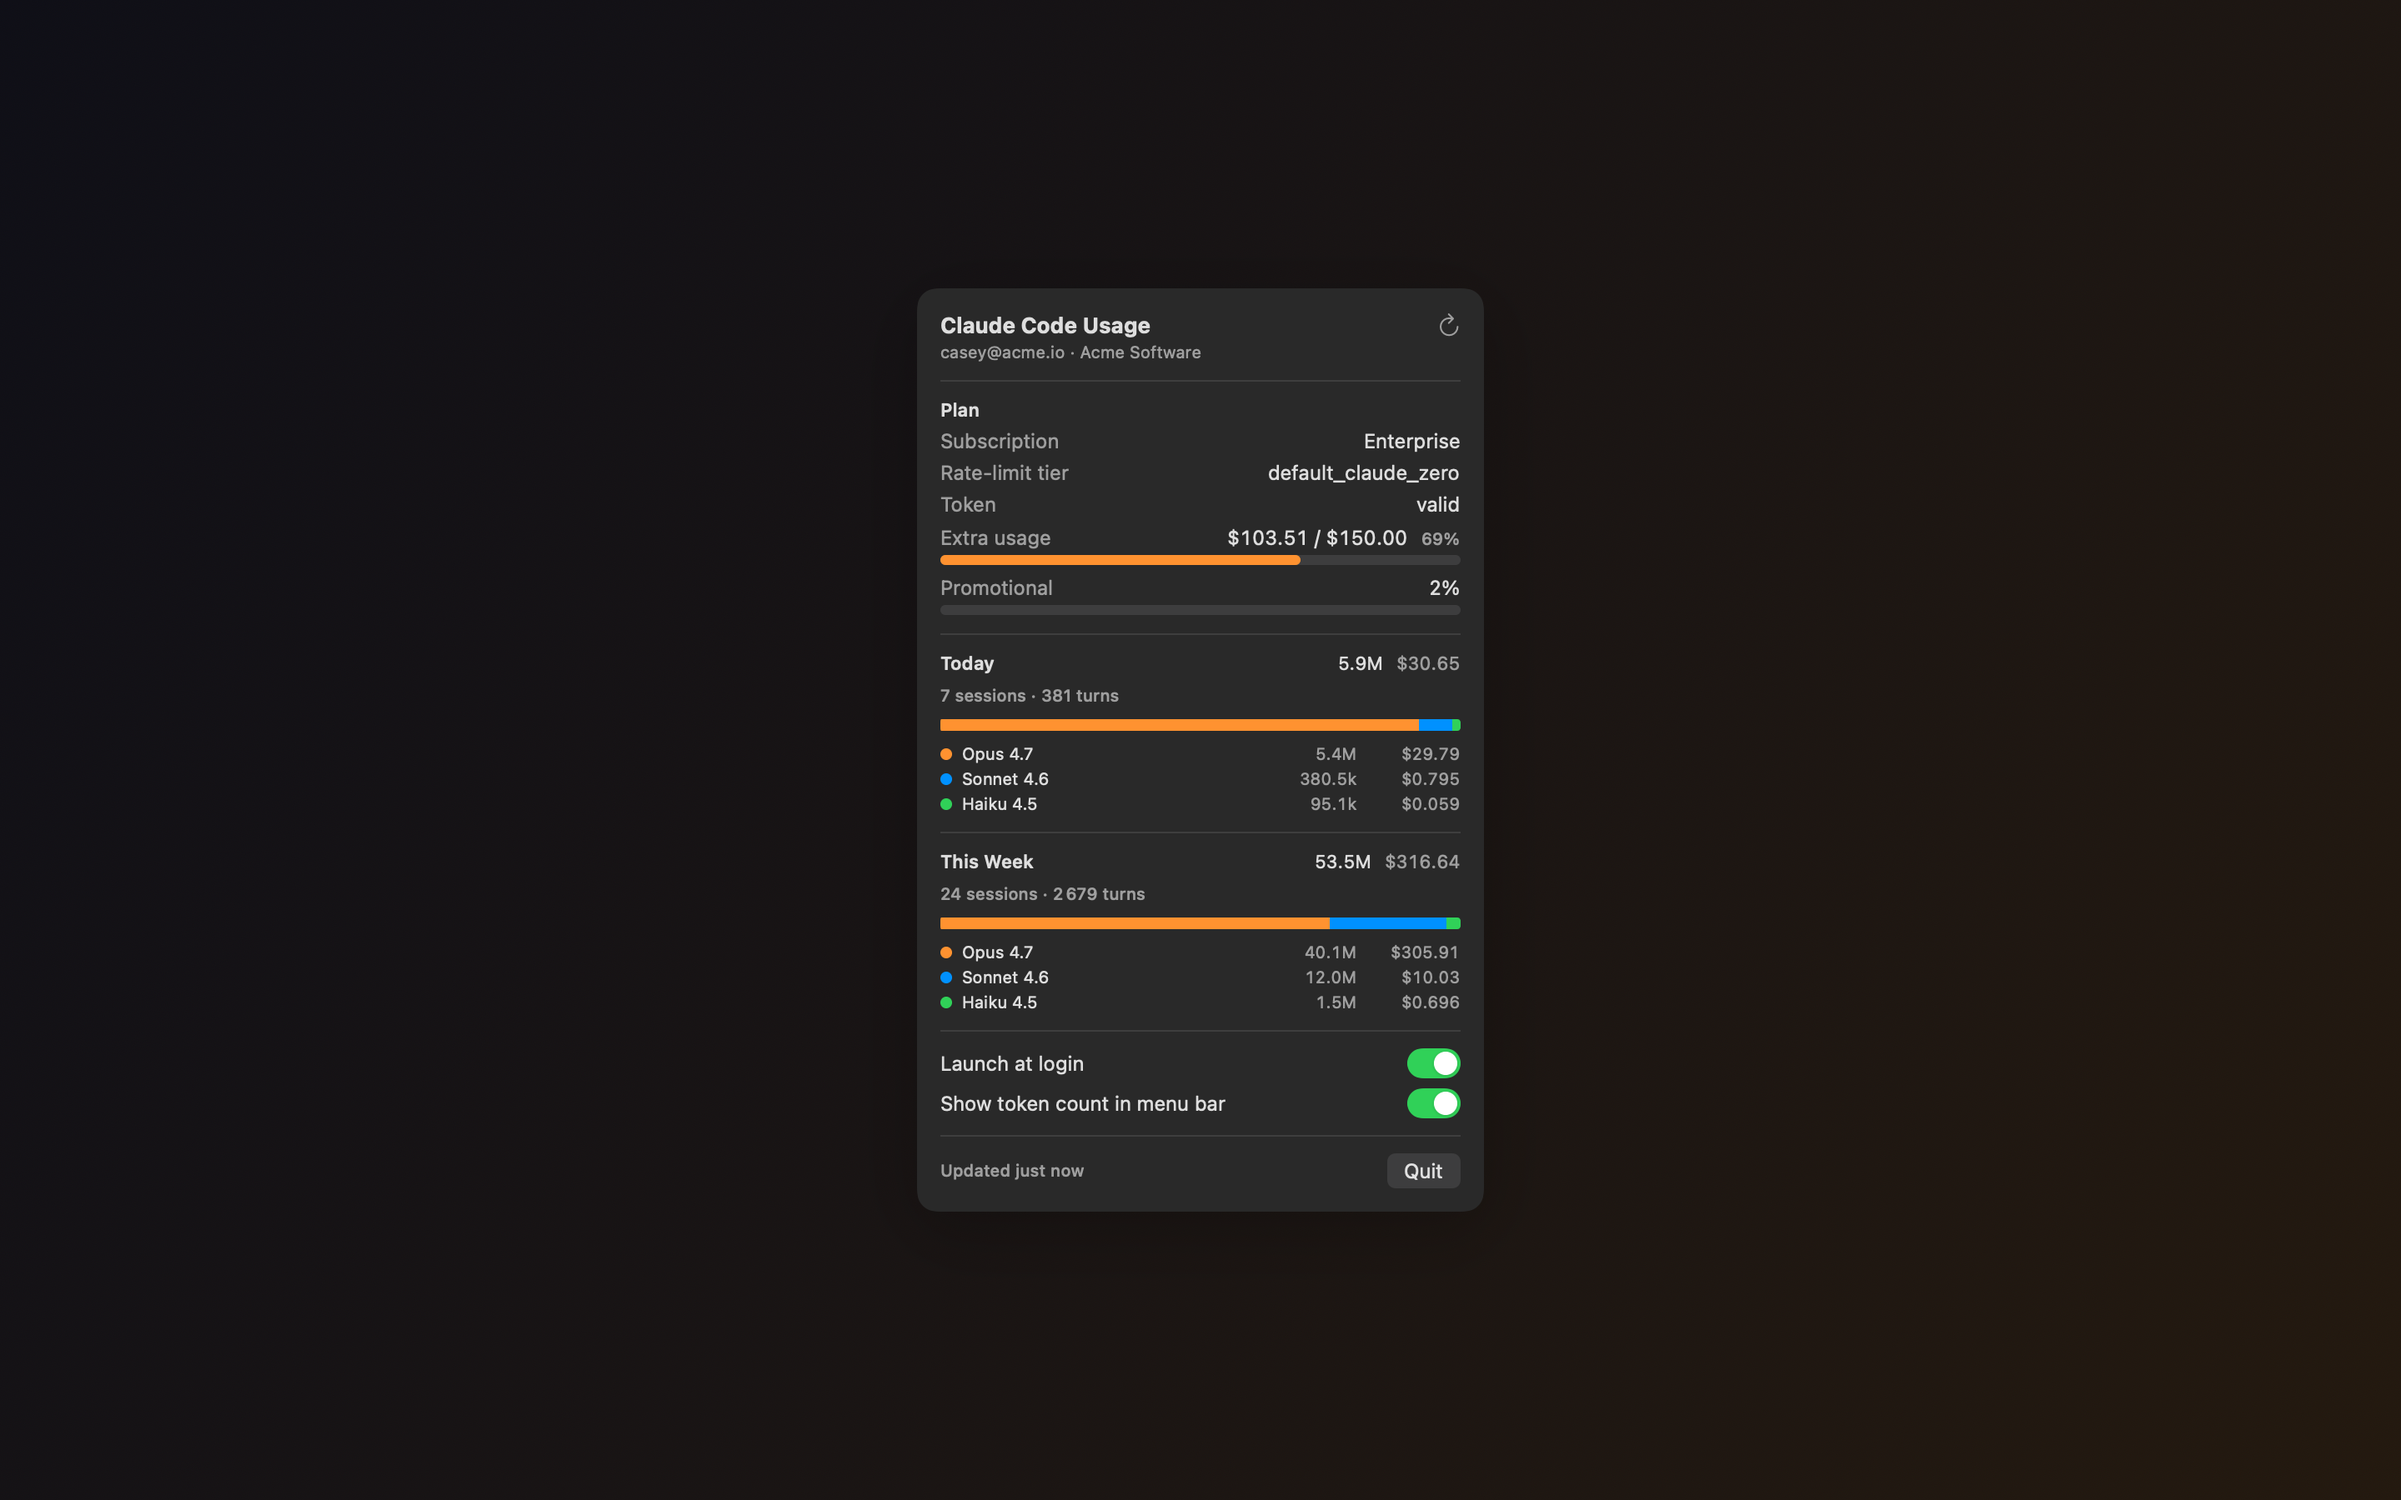
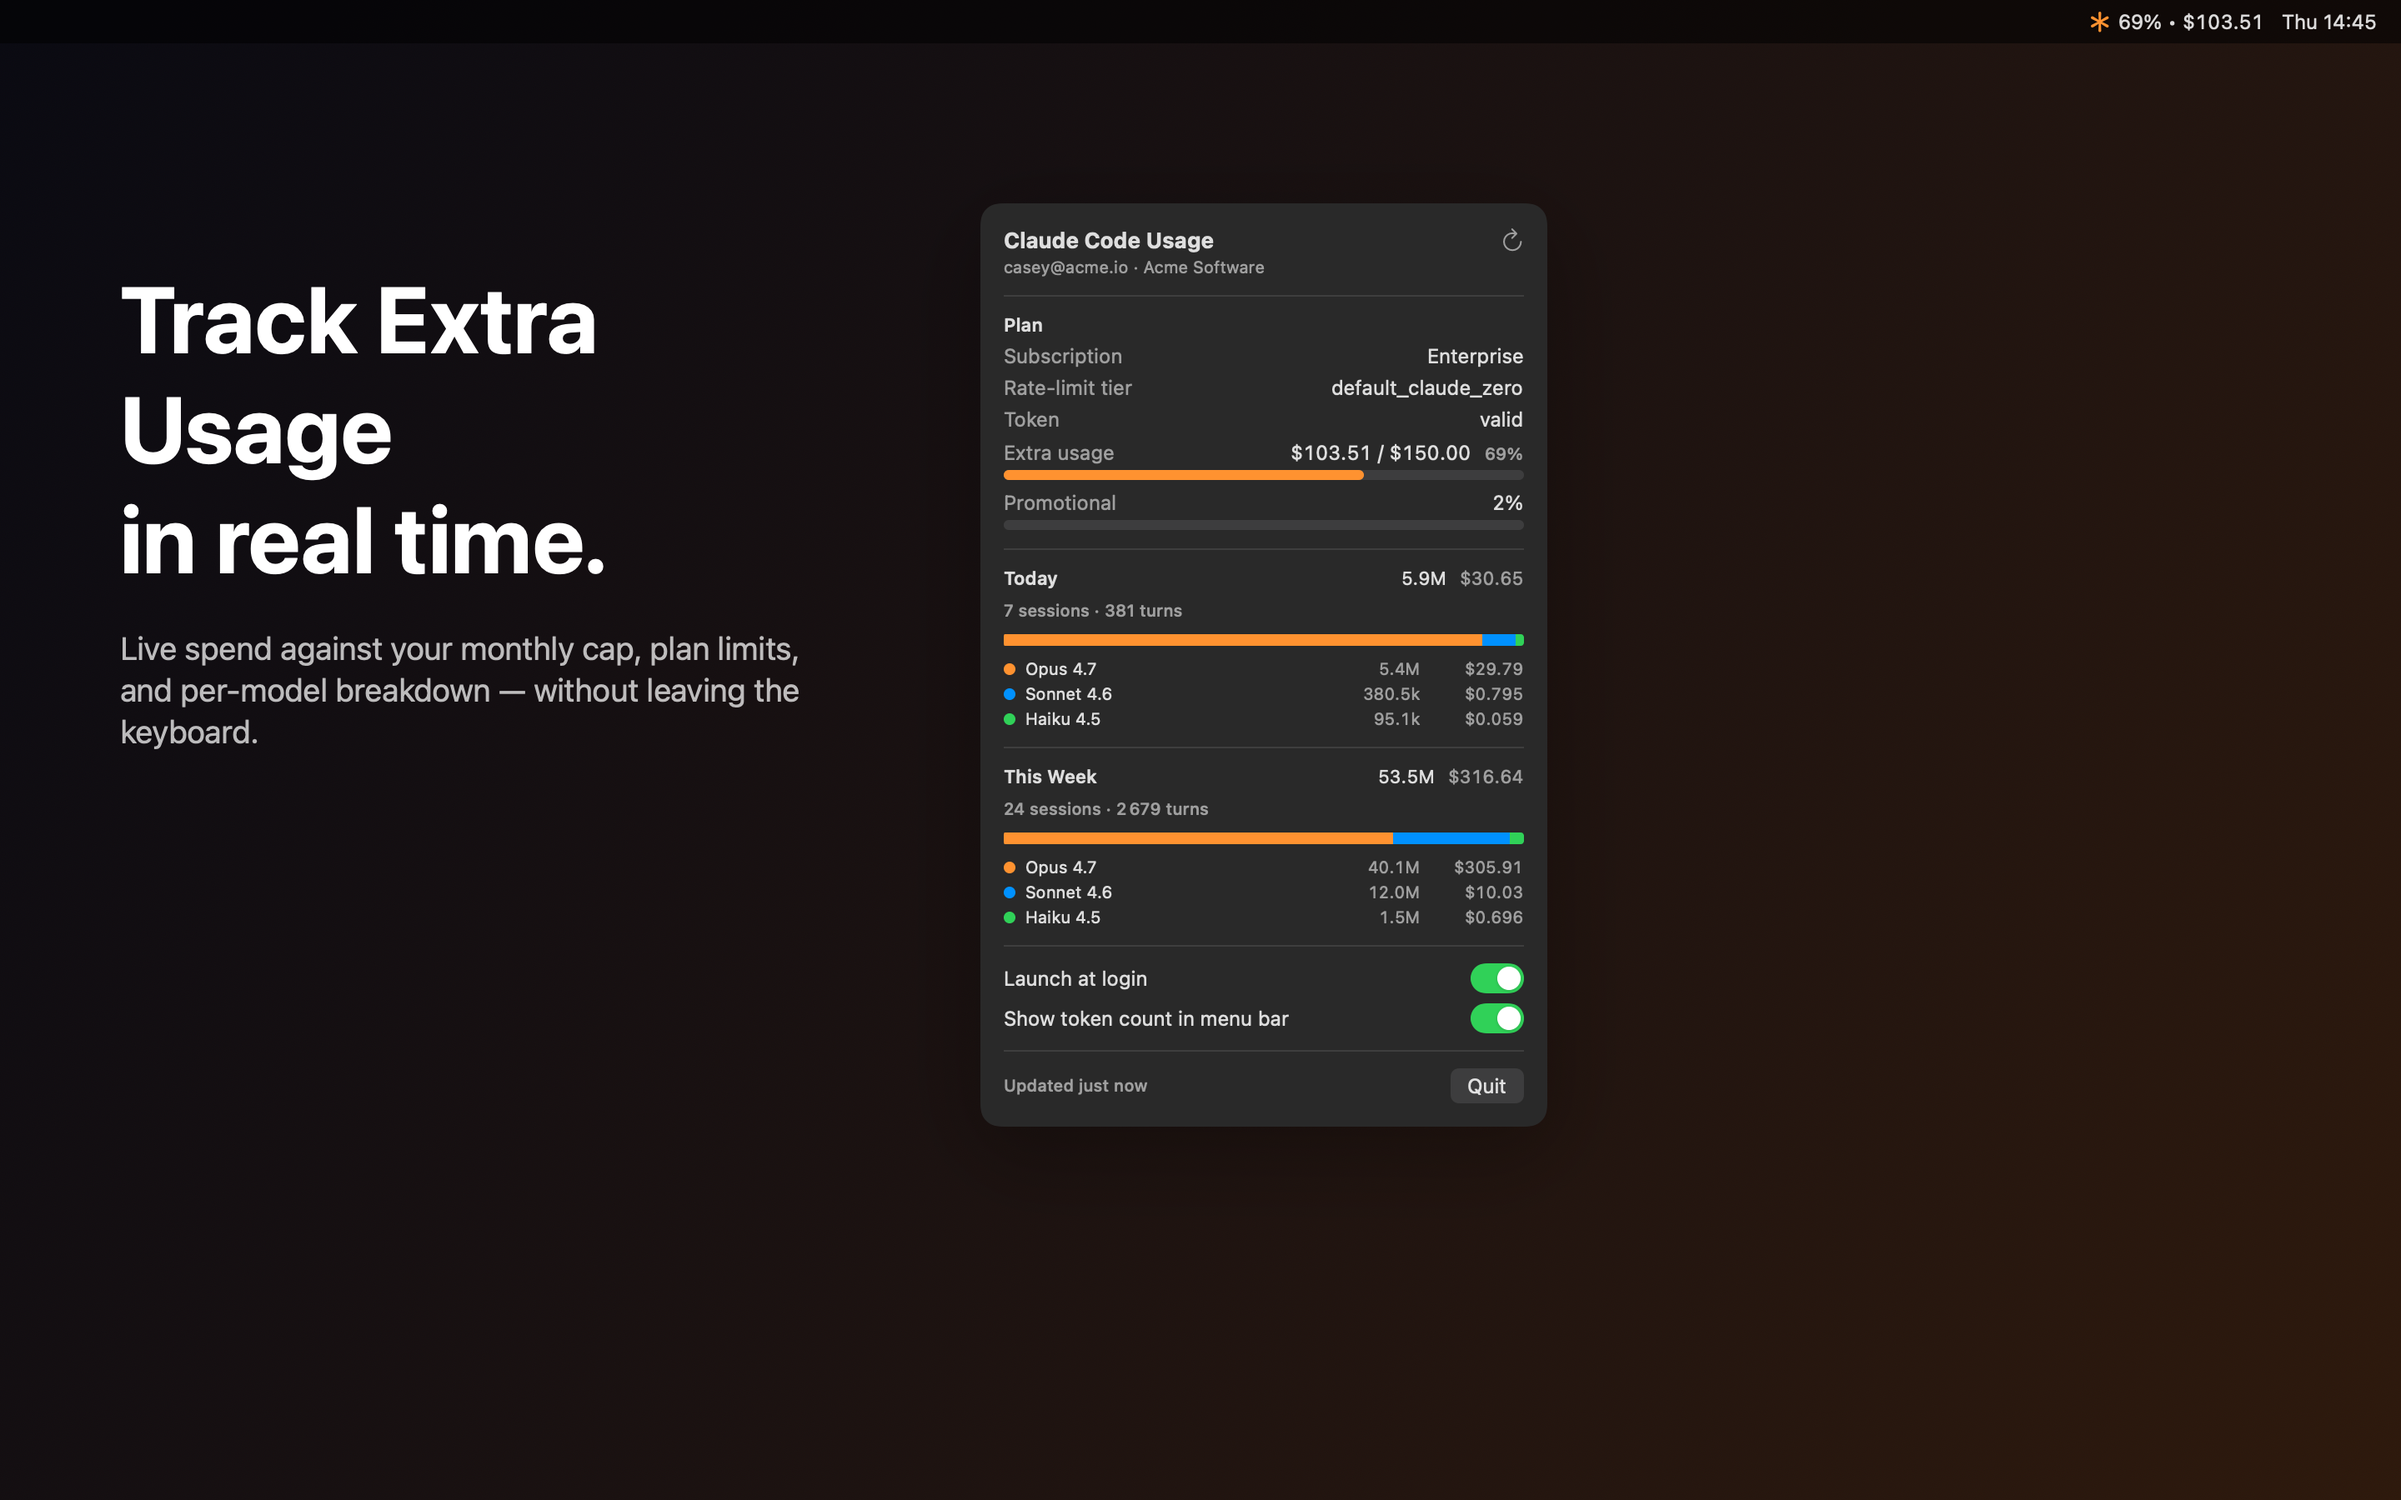
Compose screenshots with menu-bar strip, headline column, and shadowed card
Previous screenshots placed the dropdown alone in the middle of a sparse
canvas. App Store gallery shots benefit from explanatory context.

ScreenshotMode now lays out:
- Top: faux macOS menu bar strip with our actual orange asterisk + the
  live `menuBarCount` (e.g. "69% • \$103.51", "5h 13% • wk 47%") plus
  a generic time-of-day for authenticity.
- Left: per-plan headline (\"Track Extra Usage in real time.\" /
  \"Never hit your weekly cap by surprise.\") with a one-line subline.
- Right: the dropdown sitting on a soft shadow card.
- Background: warm light → amber gradient (light) / charcoal → dim
  amber (dark) so the orange brand accent reads on both themes.

Re-renders all four 2880×1800 PNGs.

diff --git a/Sources/ClaudeStatus/ScreenshotMode.swift b/Sources/ClaudeStatus/ScreenshotMode.swift
@@ -13,9 +13,14 @@ enum ScreenshotMode {
     static func run(plan rawPlan: String, outDir: String) -> Never {
         let plan = rawPlan.lowercased()
         let store: UsageStore
+        let copy: ScreenshotCopy
         switch plan {
-        case "enterprise": store = DemoData.enterpriseStore()
-        case "pro":        store = DemoData.proStore()
+        case "enterprise":
+            store = DemoData.enterpriseStore()
+            copy = .enterprise
+        case "pro":
+            store = DemoData.proStore()
+            copy = .pro
         default:
             FileHandle.standardError.write(Data("unknown plan: \(rawPlan) (expected 'enterprise' or 'pro')\n".utf8))
             exit(2)
@@ -29,16 +34,17 @@ enum ScreenshotMode {
             let outURL = URL(fileURLWithPath: outDir)
                 .appendingPathComponent("claude-status-\(plan)-\(name).png")
 
-            let content = ZStack {
-                canvasBackground(scheme)
-                DropdownFrame(scheme: scheme) {
-                    MenuView(store: store, screenshotMode: true)
-                }
+            let layout = ScreenshotLayout(
+                scheme: scheme,
+                menuBarText: store.menuBarCount ?? "",
+                copy: copy
+            ) {
+                MenuView(store: store, screenshotMode: true)
             }
             .frame(width: canvasWidth, height: canvasHeight)
             .environment(\.colorScheme, scheme)
 
-            let renderer = ImageRenderer(content: content)
+            let renderer = ImageRenderer(content: layout)
             renderer.scale = 2.0
             renderer.isOpaque = true
 
@@ -60,40 +66,125 @@ enum ScreenshotMode {
 
         exit(0)
     }
+}
+
+private struct ScreenshotCopy {
+    let headline: String
+    let subline: String
+
+    static let enterprise = ScreenshotCopy(
+        headline: "Track Extra Usage\nin real time.",
+        subline: "Live spend against your monthly cap, plan limits, and per-model breakdown — without leaving the keyboard."
+    )
+    static let pro = ScreenshotCopy(
+        headline: "Never hit your\nweekly cap by surprise.",
+        subline: "5-hour and weekly utilization at a glance, with per-model spend in API-equivalent USD."
+    )
+}
+
+/// Full canvas: background → faux menu bar strip → headline / dropdown row.
+private struct ScreenshotLayout<Dropdown: View>: View {
+    let scheme: ColorScheme
+    let menuBarText: String
+    let copy: ScreenshotCopy
+    @ViewBuilder var dropdown: () -> Dropdown
+
+    var body: some View {
+        ZStack(alignment: .topLeading) {
+            canvasBackground
+            VStack(alignment: .leading, spacing: 0) {
+                menuBarStrip
+                bodyRow
+            }
+        }
+    }
 
     @ViewBuilder
-    private static func canvasBackground(_ scheme: ColorScheme) -> some View {
+    private var canvasBackground: some View {
         if scheme == .dark {
             LinearGradient(
-                colors: [Color(red: 0.06, green: 0.06, blue: 0.09),
-                         Color(red: 0.14, green: 0.10, blue: 0.06)],
+                colors: [Color(red: 0.04, green: 0.04, blue: 0.07),
+                         Color(red: 0.18, green: 0.10, blue: 0.05)],
                 startPoint: .topLeading, endPoint: .bottomTrailing
             )
         } else {
             LinearGradient(
-                colors: [Color(red: 0.98, green: 0.97, blue: 0.94),
-                         Color(red: 1.00, green: 0.93, blue: 0.86)],
+                colors: [Color(red: 0.98, green: 0.96, blue: 0.93),
+                         Color(red: 1.00, green: 0.88, blue: 0.74)],
                 startPoint: .topLeading, endPoint: .bottomTrailing
             )
         }
     }
-}
 
-/// Popover-style background around the MenuView content.
-private struct DropdownFrame<Content: View>: View {
-    let scheme: ColorScheme
-    @ViewBuilder var content: () -> Content
+    private var menuBarStrip: some View {
+        HStack(spacing: 0) {
+            Spacer()
+            HStack(spacing: 4) {
+                Image(systemName: "asterisk")
+                    .foregroundStyle(.orange)
+                    .font(.system(size: 12, weight: .semibold))
+                if !menuBarText.isEmpty {
+                    Text(menuBarText)
+                        .font(.system(size: 12).monospacedDigit())
+                        .foregroundStyle(menuBarForeground)
+                }
+            }
+            .padding(.horizontal, 10)
+            Text("Thu 14:45")
+                .font(.system(size: 12))
+                .foregroundStyle(menuBarForeground)
+                .padding(.trailing, 14)
+        }
+        .frame(height: 26)
+        .background(
+            scheme == .dark
+                ? Color.black.opacity(0.55)
+                : Color.white.opacity(0.85)
+        )
+    }
 
-    var body: some View {
-        content()
+    private var menuBarForeground: Color {
+        scheme == .dark ? Color.white.opacity(0.85) : Color.black.opacity(0.78)
+    }
+
+    private var bodyRow: some View {
+        HStack(alignment: .top, spacing: 56) {
+            headlineColumn
+            dropdownColumn
+            Spacer(minLength: 0)
+        }
+        .padding(.leading, 72)
+        .padding(.trailing, 56)
+        .padding(.top, 96)
+    }
+
+    private var headlineColumn: some View {
+        VStack(alignment: .leading, spacing: 22) {
+            Text(copy.headline)
+                .font(.system(size: 56, weight: .bold, design: .default))
+                .lineSpacing(-4)
+                .foregroundStyle(scheme == .dark ? .white : .black)
+            Text(copy.subline)
+                .font(.system(size: 19))
+                .foregroundStyle(scheme == .dark
+                                 ? Color.white.opacity(0.72)
+                                 : Color.black.opacity(0.66))
+                .lineSpacing(2)
+                .frame(maxWidth: 420, alignment: .leading)
+        }
+        .frame(maxWidth: 460, alignment: .leading)
+        .padding(.top, 36)
+    }
+
+    private var dropdownColumn: some View {
+        dropdown()
             .frame(width: 340)
-            .padding(0)
             .background(
                 RoundedRectangle(cornerRadius: 12)
                     .fill(scheme == .dark
                           ? Color(white: 0.16)
-                          : Color(white: 0.99))
-                    .shadow(color: .black.opacity(0.22), radius: 22, x: 0, y: 10)
+                          : Color(white: 0.995))
+                    .shadow(color: .black.opacity(0.28), radius: 26, x: 0, y: 14)
             )
     }
 }
